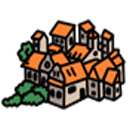
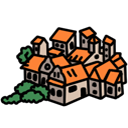
Added Targetting (not finished)

diff --git a/GamePlay.js b/GamePlay.js
@@ -28,12 +28,15 @@ var gamePlayState = new Phaser.Class({
     preload: function() {
         var time = 'null';
 
-        this.load.image('ui', 'Assets/Pictures/UI.png');
+        this.load.image('ui', 'Assets/Pictures/MapOneHealthBars.png');
         
         this.load.image('bg', 'Assets/Pictures/Map_1.png');
         
         this.load.image('castle', 'Assets/Pictures/CastleOne1.png');
         this.load.image('friendly', 'Assets/Pictures/nepoleon blue.png');
+        this.load.image('villageNeutral', 'Assets/Pictures/SettlementOne1.png');
+        this.load.image('villageCaptured', 'Assets/Pictures/SettlementOne2.png');
+        this.load.image('villageDestroyed', 'Assets/Pictures/SettlementOne3.png');
         
         this.load.audio('bgMusic', 'Assets/Music/background sound/beethoven_symphony_5_1.ogg');
     },
@@ -49,15 +52,24 @@ var gamePlayState = new Phaser.Class({
         this.add.image(640, 400, 'bg');
         
         //sprites
-        this.castle = this.physics.add.sprite(650, 400, 'castle');
+        this.castle = this.physics.add.sprite(640, 417, 'castle');
         self.castle.body.immovable = true;
         
-        self.friendly = new Friendly(300, 200, self);
+        self.friendly = new Friendly(300, 200, self).setInteractive();
         this.add.existing(self.friendly);
         this.physics.add.existing(self.friendly, false);
         
-        //self.village = this.add.group();
-        //self.village.a
+        self.village1 = new Village(258, 615, self);
+        self.village2 = new Village(574, 232, self);
+        self.village3 = new Village(834, 677, self);
+        self.village4 = new Village(970, 225, self);
+        self.village5 = new Village(1024, 455, self);
+        
+        this.physics.add.existing(self.village1, true);
+        this.physics.add.existing(self.village2, true);
+        this.physics.add.existing(self.village3, true);
+        this.physics.add.existing(self.village4, true);
+        this.physics.add.existing(self.village5, true);
         
         game.input.activePointer.capture = true;
         
@@ -75,16 +87,25 @@ var gamePlayState = new Phaser.Class({
         // Update objects & variables
         var self = this;
         if (game.input.activePointer.isDown){
-            self.friendly.xDest = game.input.activePointer.x;
-            console.log("x: "+game.input.activePointer.x+" y: "+game.input.activePointer.y);
-            self.friendly.yDest = game.input.activePointer.y;
-            
+            //self.friendly.xDest = game.input.activePointer.x;
+            //self.friendly.yDest = game.input.activePointer.y;
+            console.log("Cursor\nx: "+game.input.activePointer.x+" y: "+game.input.activePointer.y);
             self.friendly.setDest(game.input.activePointer.x, game.input.activePointer.y);
             
         }
+        self.friendly.on('pointerdown', function () {
+            self.friendly.isSelected();
+        });
         
         self.friendly.update();
+        
+        
         this.physics.add.collider(self.friendly, self.castle, function(){ });
+        this.physics.add.collider(self.friendly, self.village1, function(){ });
+        this.physics.add.collider(self.friendly, self.village2, function(){ });
+        this.physics.add.collider(self.friendly, self.village3, function(){ });
+        this.physics.add.collider(self.friendly, self.village4, function(){ });
+        this.physics.add.collider(self.friendly, self.village5, function(){ });
         
         
     },
@@ -92,28 +113,69 @@ var gamePlayState = new Phaser.Class({
 });
 
 function Friendly(x, y, game) {
-  var friendly = game.add.sprite(x, y, 'friendly');
-  friendly.speed = 80
-  friendly.xDest = x;
-  friendly.yDest = y;
-
-  friendly.setDest = function(x, y) {
+    var friendly = game.add.sprite(x, y, 'friendly');
+    var selected = false;
+    friendly.speed = 80
     friendly.xDest = x;
     friendly.yDest = y;
-  };
 
-  friendly.update = function() {
-    var self = this;
-    move(self);
+    friendly.setDest = function(x, y) {
+        if(selected == true){
+            friendly.xDest = x;
+            console.log("selected");
+            friendly.yDest = y;
+        }
+        else{
+            console.log("not Selected");
+        }
+    };
 
-  }
-  friendly.stop = function() {
-    var self = this;
-    self.xDest = self.x;
-    self.yDest = self.y;
+    friendly.update = function() {
+        var self = this;
+        move(self);
+    }
+    
+    friendly.isSelected = function(){
+        this.setTint(0xff0000);
+        selected = true;
+    }
 
-  }
-  return friendly;
+    friendly.stop = function() {
+        var self = this;
+        self.xDest = self.x;
+        self.yDest = self.y;
+    
+        //selected = false;
+        //this.clearTint();
+        
+
+    }
+    return friendly;
+}
+
+function Village(x, y, game) {
+    var village = game.add.sprite(x, y, 'villageNeutral');
+    var health;
+    village.xDest = x;
+    village.yDest = y;
+
+    village.setDest = function(x, y) {
+        village.xDest = x;
+        village.yDest = y;
+    };
+
+    village.update = function() {
+        var self = this;
+        
+        move(self);
+    }
+    village.stop = function() {
+        var self = this;
+        self.xDest = self.x;
+        self.yDest = self.y;
+
+    }
+    return village;
 }
 
 function move(self){
